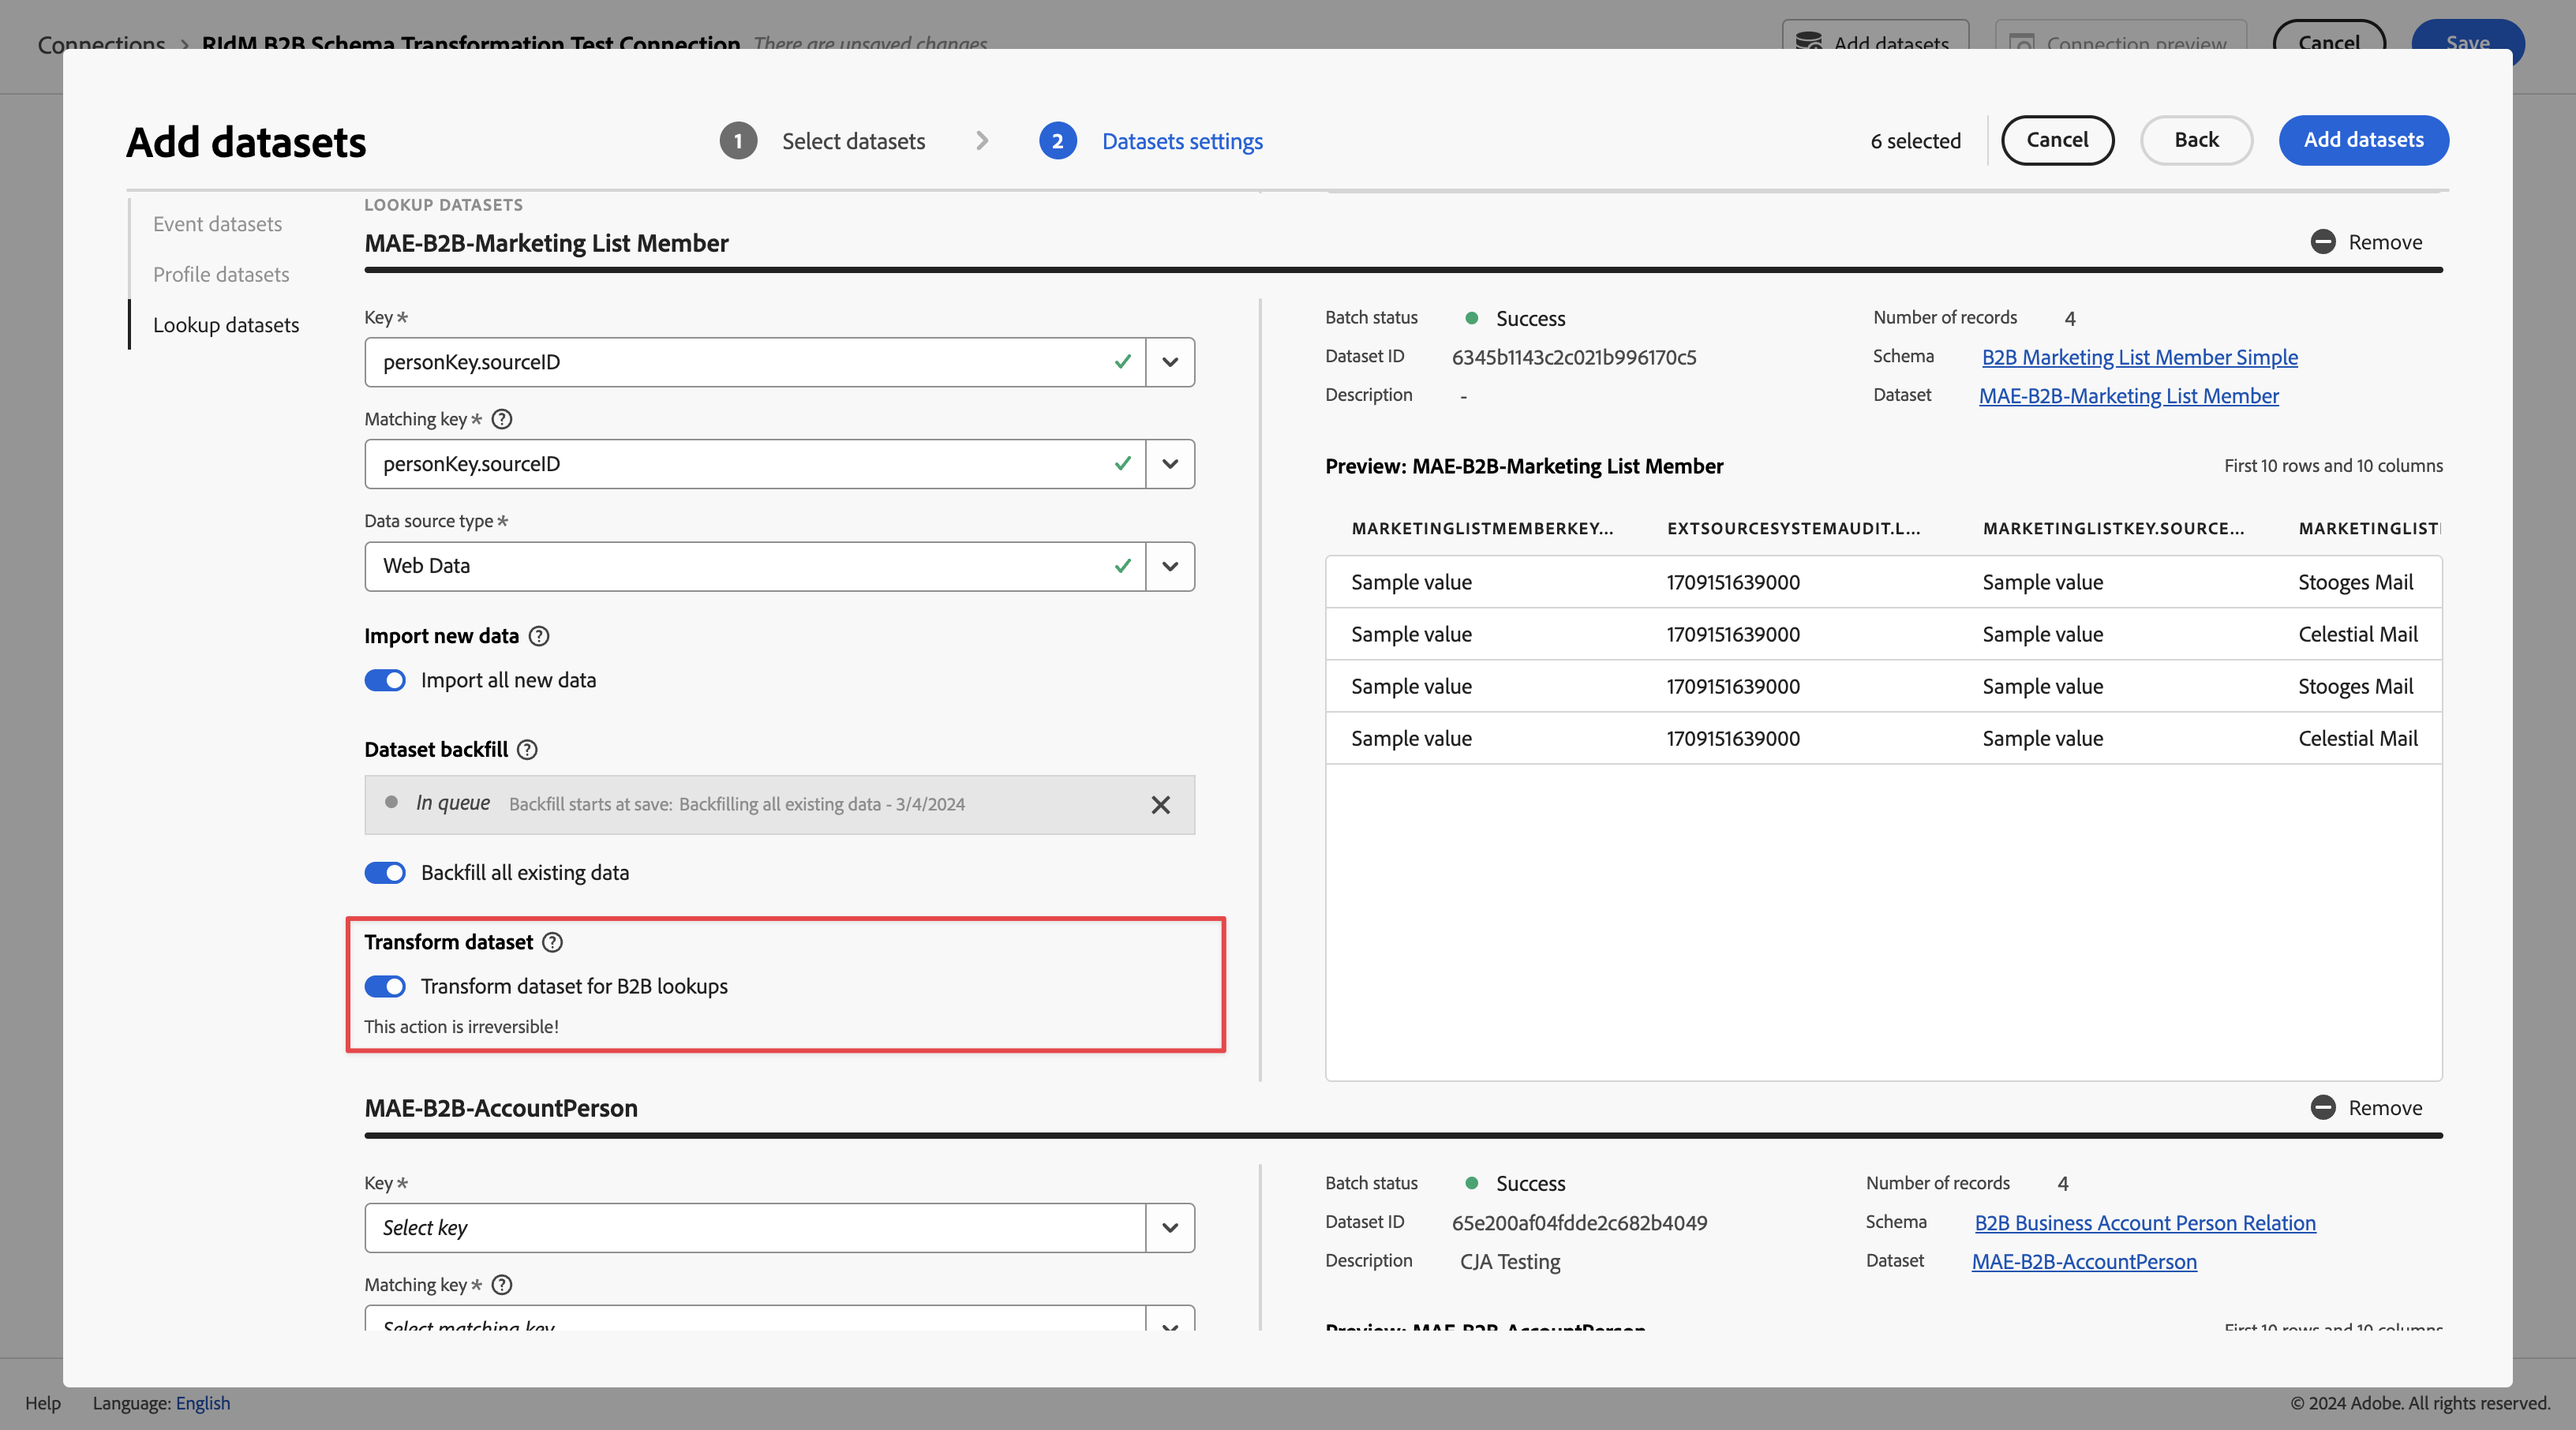
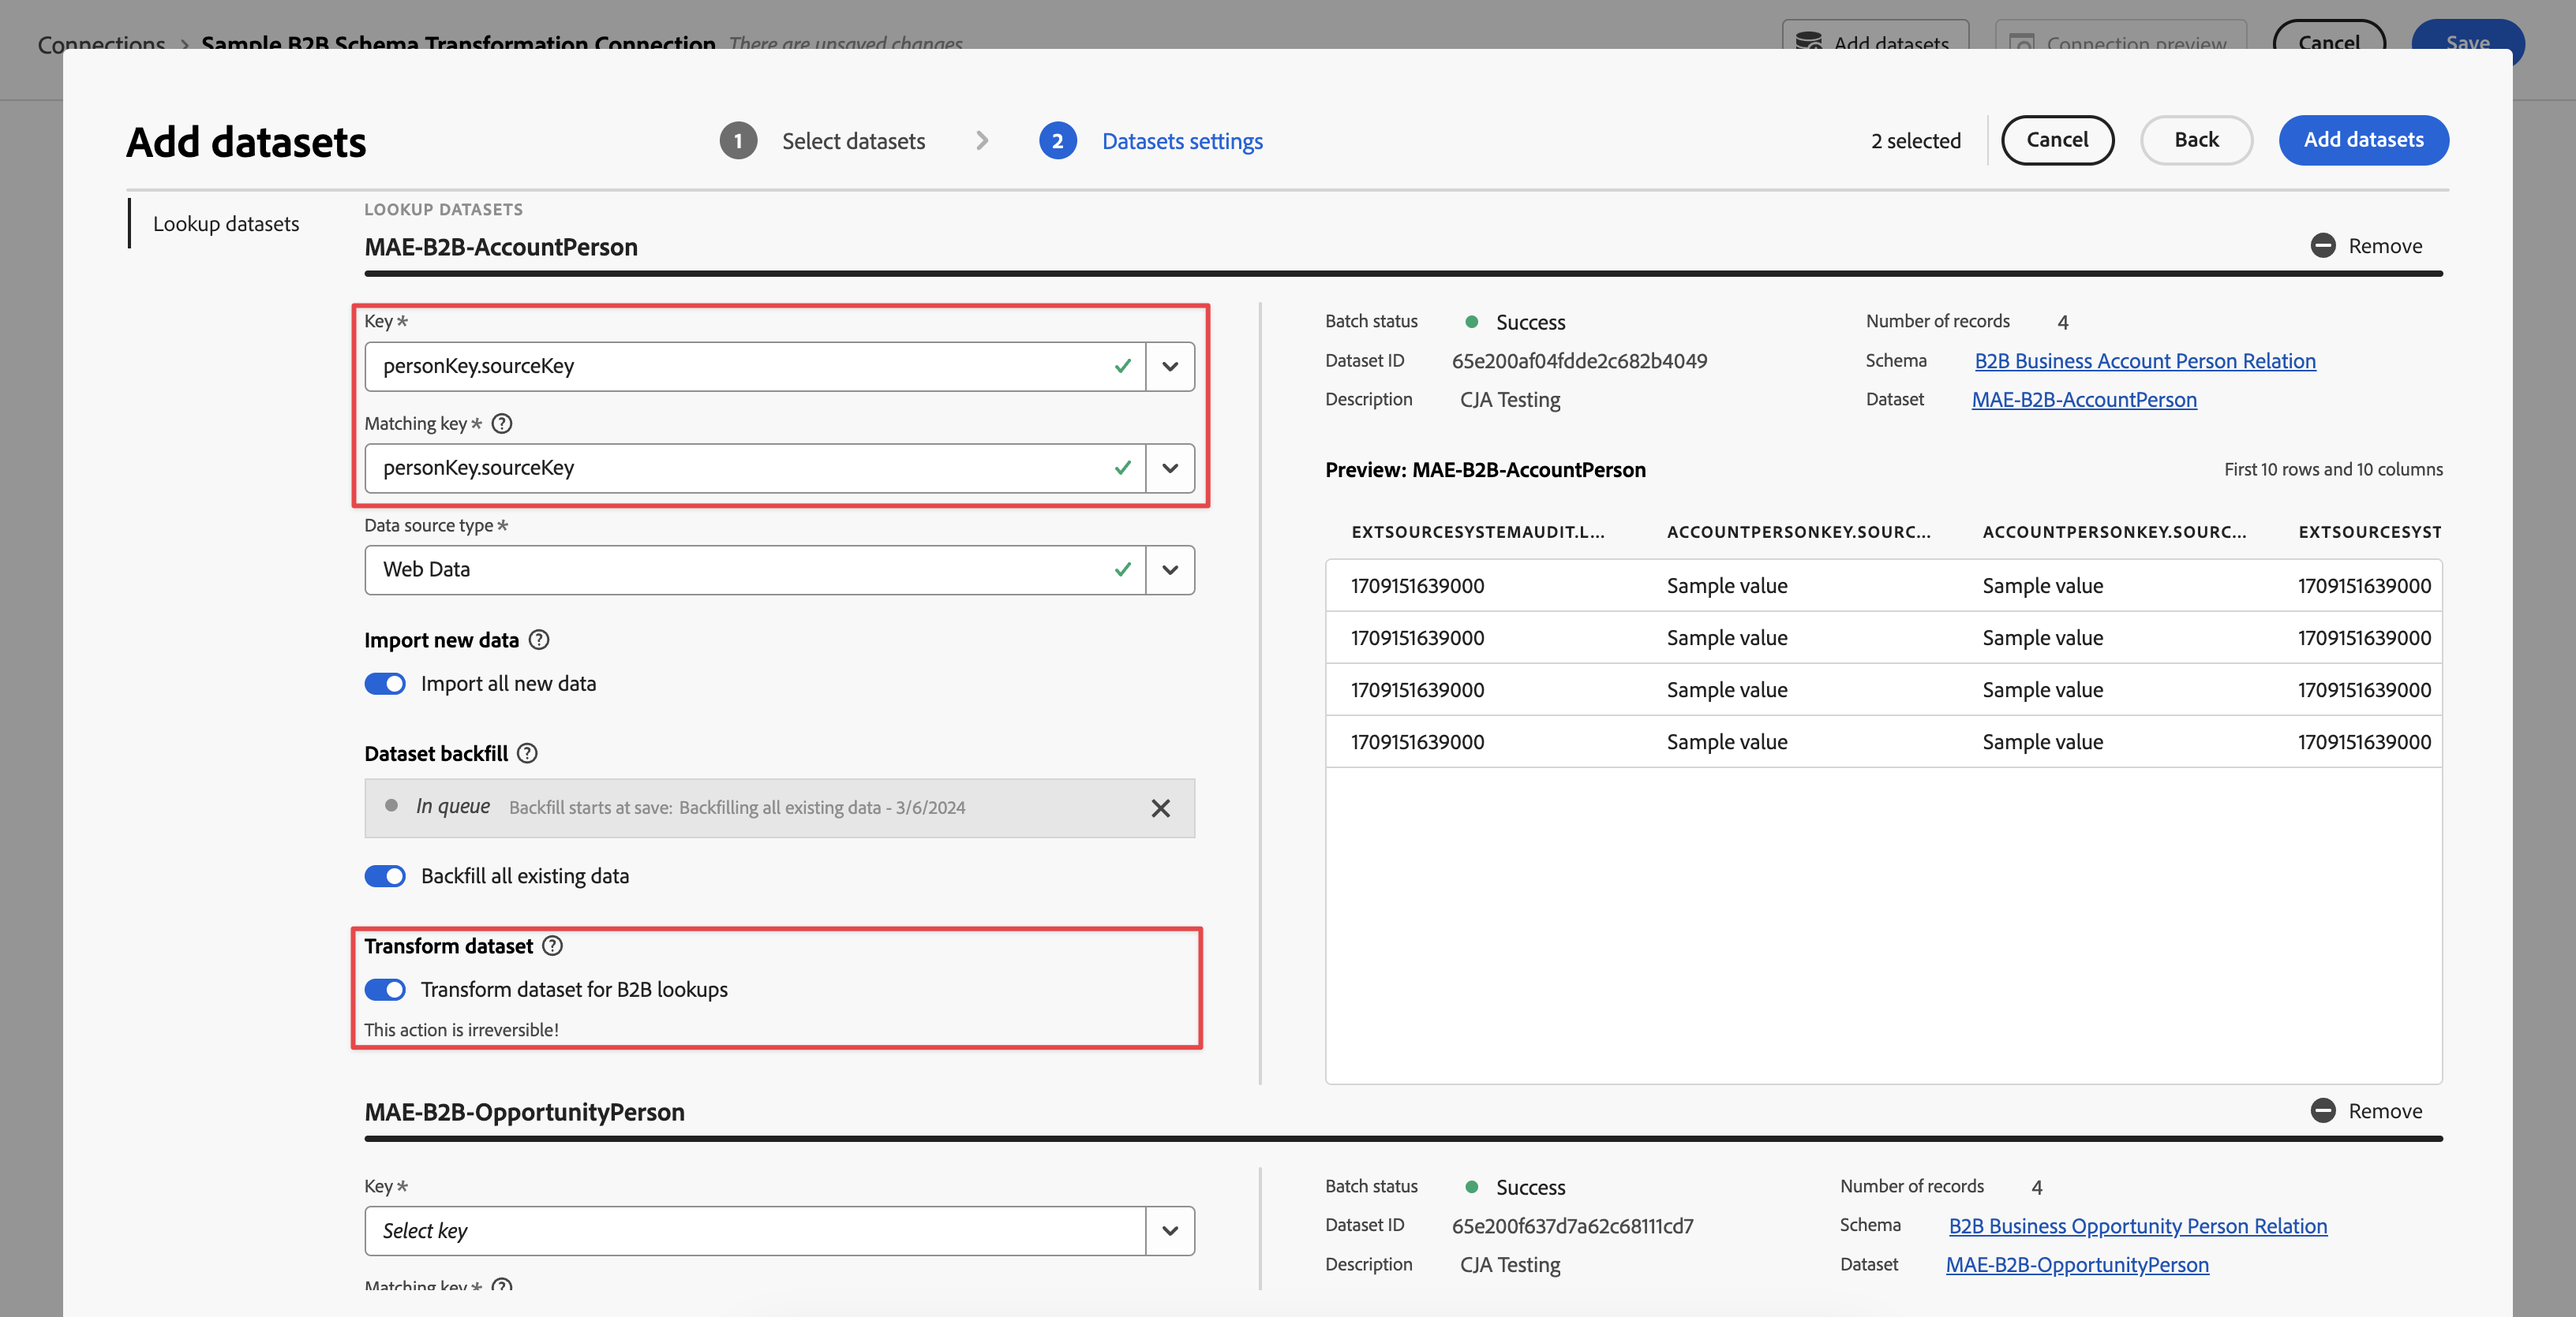
Updated example

diff --git a/help/use-cases/b2b/example.md b/help/use-cases/b2b/example.md
@@ -10,11 +10,11 @@ role: User
 ---
 # An example B2B project
 
-This article explains, through examples, how to set up, configure and report on B2B data in Customer Journey Analytics.
+This article explains how to set up, configure and report on profile (person) level based B2B data in Customer Journey Analytics.
 
 ## Connection
 
-Define your connection to include all relevant B2B datasets from Experience Platform. This includes the important lookup datasets required in a typical B2B setup within Experience Platform. See [Add account-level data as a lookup dataset](b2b.md) for more information.
+Define your connection to include all relevant B2B datasets from Experience Platform. Ensure you include and transform all relevant lookup datasets required for a typical B2B person-based reporting scenario. See [Transform B2B lookup datasets](/help/connections/transform-datasets-b2b-lookups.md) for more information.
 
 Datasets you can consider to add to your connection:
 
@@ -22,23 +22,27 @@ Datasets you can consider to add to your connection:
 |---|---|---|---|---|
 | B2B Activity Dataset | B2B Activity Schema | Event | XDM ExperienceEvent | An ExperienceEvent is a fact record of what occurred, including the point in time and identity of the individual involved. ExperienceEvents can be either explicit (directly observable human actions) or implicit (raised without a direct human action) and are recorded without aggregation or interpretation. They are critical for time-domain analytics as they allow for observation and analysis of changes that occur in a given window of time and the comparison between multiple windows of time to track trends. |
 | B2B Person Dataset | B2B Person Schema | Profile | XDM Individual Profile | An XDM Individual Profile forms a singular representation of the attributes and interests of both identified and partially identified individuals. Less-identified profiles may contain only anonymous behavioral signals, such as browser cookies, while highly identified profiles may contain detailed personal information such as name, date of birth, location, and email address. As a profile grows, it becomes a robust repository of personal information, identification information, contact details, and communication preferences for an individual. |
+| B2B Account Person Relation Dataset | B2B Account Person Relation Schema | Lookup | XDM Business Account Person Relation | XDM Business Account Person Relation is a standard Experience Data Model (XDM) class that captures the minimum required properties of a person that is associated with a business account. |
+| B2B Opportunity Person Relation Dataset | B2B Opportunity Person  Relation Schema | Lookup | XDM Business Opportunity Person Relation | XDM Business Opportunity Person Relation is a standard Experience Data Model (XDM) class that captures the minimum required properties of a person that is associated with a business opportunity. |
+| B2B Marketing List Members Dataset | B2B Marketing List Members Schema | Lookup | XDM Marketing List Members | XDM Business Marketing List Members is a standard Experience Data Model (XDM) class that describes members, persons, or contacts associated with a marketing list. |
 | B2B Campaign Member Dataset | B2B Campaign Member Schema | Lookup | XDM Business Campaign Members | XDM Business Campaign Members is a standard Experience Data Model (XDM) class that describes a contact or lead associated with a business campaign. |
+<!--
 | B2B Account Dataset | B2B Account Schema | Lookup | XDM Business Account | XDM Business Account is a standard Experience Data Model (XDM) class that captures the minimum required properties of a business account.  |
-| B2B Account Person Relation Dataset | B2B Account Person Relation Schema | Lookup | XDM Business Account Person Relation | XDM Business Account Person Relation is a standard Experience Data Model (XDM) class that captures the minimum required properties of a person that is associated with a business account.  |
 | B2B Opportunity Dataset | B2B Opportunity Schema | Lookup | XDM Business Opportunity | XDM Business Opportunity is a standard Experience Data Model (XDM) class that captures the minimum required properties of a business opportunity.  |
-| B2B Opportunity Person Relation Dataset | B2B Opportunity Person  Relation Schema | Lookup | XDM Business Opportunity Person Relation | XDM Business Opportunity Person Relation is a standard Experience Data Model (XDM) class that captures the minimum required properties of a person that is associated with a business opportunity.  |
 | B2B Campaign Dataset | B2B Campaign Schema | Lookup | XDM Business Campaign | XDM Business Campaign is a standard Experience Data Model (XDM) class that captures the minimum required properties of a business campaign.  |
 | B2B Marketing List Dataset | B2B Marketing List Schema | Lookup | XDM Marketing List | XDM Business Marketing List is a standard Experience Data Model (XDM) class that captures the minimum required properties of a marketing list. Marketing lists allow you to prioritize on prospect clients who are most likely to buy your product.  |
-| B2B Marketing List Members Dataset | B2B Marketing List Members Schema | Lookup | XDM Marketing List Members | XDM Business Marketing List Members is a standard Experience Data Model (XDM) class that describes members, persons, or contacts associated with a marketing list. |
+-->
+
 
 The relationship between the lookup schemas, profile schema, and event schema is defined in the B2B setup within Experience Platform. See Schemas in [Real-Time Customer Data Platform B2B Edition](https://experienceleague.adobe.com/docs/experience-platform/rtcdp/schemas/b2b.html?lang=en) and [Define a many-to-one relationship between two schemas in Real-Time Customer Data Platform B2B Edition](https://experienceleague.adobe.com/docs/experience-platform/xdm/tutorials/relationship-b2b.html?lang=en) for more details. 
 
 ![Relationship between B2B schemas](assets/classes.png)
 
-For each lookup dataset that you add to your connection, you must explicitly define the relationship to an event dataset using Key and Matching key in the Edit dataset dialog. For example:
+For each lookup dataset that you add to your connection, you must explicitly define the relationship to an event dataset using **[!UICONTROL Key]** and **[!UICONTROL Matching key]** in the **[!UICONTROL Edit dataset]** dialog. For example:
 
 ![Key - Matching key](assets/key-matchingkey.png)
 
+For each lookup dataset you also enable **[!UICONTROL Transform dataset]** to ensure the data is transformed for person-based lookups. See [Transform datasets for B2B lookups](/help/connections/transform-datasets-b2b-lookups.md) for more information.
 
 The table below provides an example overview of the [!UICONTROL Person ID], [!UICONTROL Key], and [!UICONTROL Matching key] values for each of the datasets.
 
@@ -47,22 +51,19 @@ The table below provides an example overview of the [!UICONTROL Person ID], [!UI
 |---|---|---|---|
 | B2B Activity Dataset | `personKey.sourceKey` | | |
 | B2B Person Dataset | `b2b.personKey.sourceKey` | | |
-| B2B Account Dataset | | `accountKey.sourceKey` | *_organizationID*`.interactions.accountKey.sourceKey` |
-| B2B Opportunity Dataset | | `accountKey.sourceKey` | *_organizationID*`.interactions.accountKey.sourceKey` |
-| B2B Campaign Dataset | | `campaignKey.sourceKey` |  *_organizationID*`.interactions.campaignKey.sourceKey` |
-| B2B Marketing List Dataset | | `listKey.sourceKey` | `listOperations.listKey.sourceKey` |
+| B2B Account Person Dataset | | `personKey.sourceKey` | `personKey.sourceKey` |
+| B2B Opportunity Dataset | | `personKey.sourceKey` | `personKey.sourceKey` |
+| B2B Campaign Members Dataset | | `personKey.sourceKey` |  `personKey.sourceKey` |
+| B2B Marketing List Dataset | | `personKey.sourceKey` | `personKey.sourceKey` |
 
 {style="table-layout:auto"}
-
-
-In the table *_organizationID*`.interaction.*`, refers to the custom field group that you have added to the B2B Activity schema to define the relationship with  the B2B Account and B2B Opportunity schema. The `listOperations.listKey.sourceKey` refers to the Add To List field group added to the B2B Activity schema to track when a person is added to a specific list.
 
 See [Add and configure datasets](../../connections/create-connection.md) for more information on how to configure settings for a dataset.
 
 
 ## Data view
 
-To have access to relevant B2B dimensions and metrics when building your Workspace project, you must define your data view accordingly. 
+To have access to relevant B2B dimensions and metrics when building your Workspace project, you must define your dataview accordingly. 
 
 This section provides recommendations and suggestions on what dimensions and metrics to include when defining the [components](../../data-views/create-dataview.md#components) for B2B datasets in your data view.
 

diff --git a/help/connections/transform-datasets-b2b-lookups.md b/help/connections/transform-datasets-b2b-lookups.md
@@ -20,6 +20,8 @@ To enable transformation for such a dataset:
 
 ![Enable transform dataset](assets/transform-dataset.png)
 
+* Ensure you select the proper identifier for **[!UICONTROL Key]** and **[!UICONTROL Matching key]**, for example `personKey.sourceKey`.
+
 * Select **[!UICONTROL Transform dataset for B2B lookups]**.
 
   This option will transform the dataset so it can be used for person-based lookups in B2B scenarios. 
